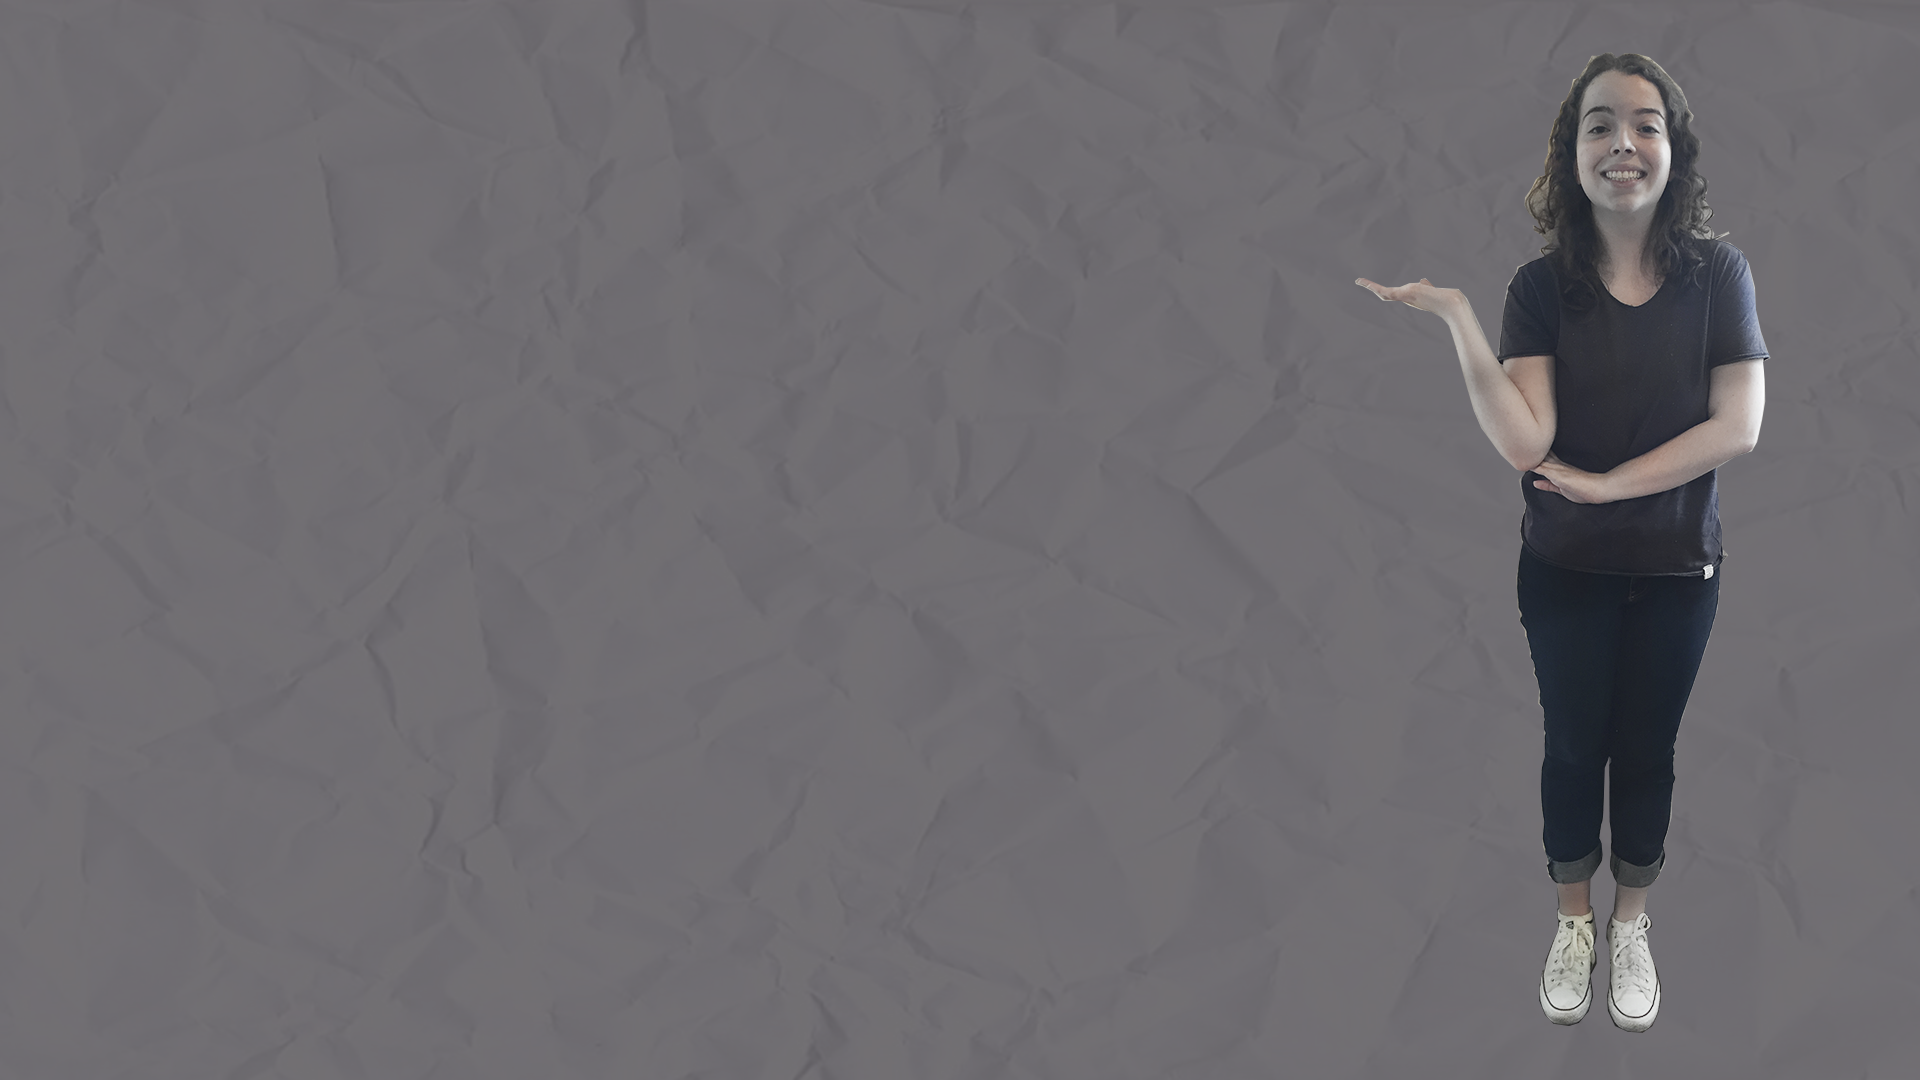
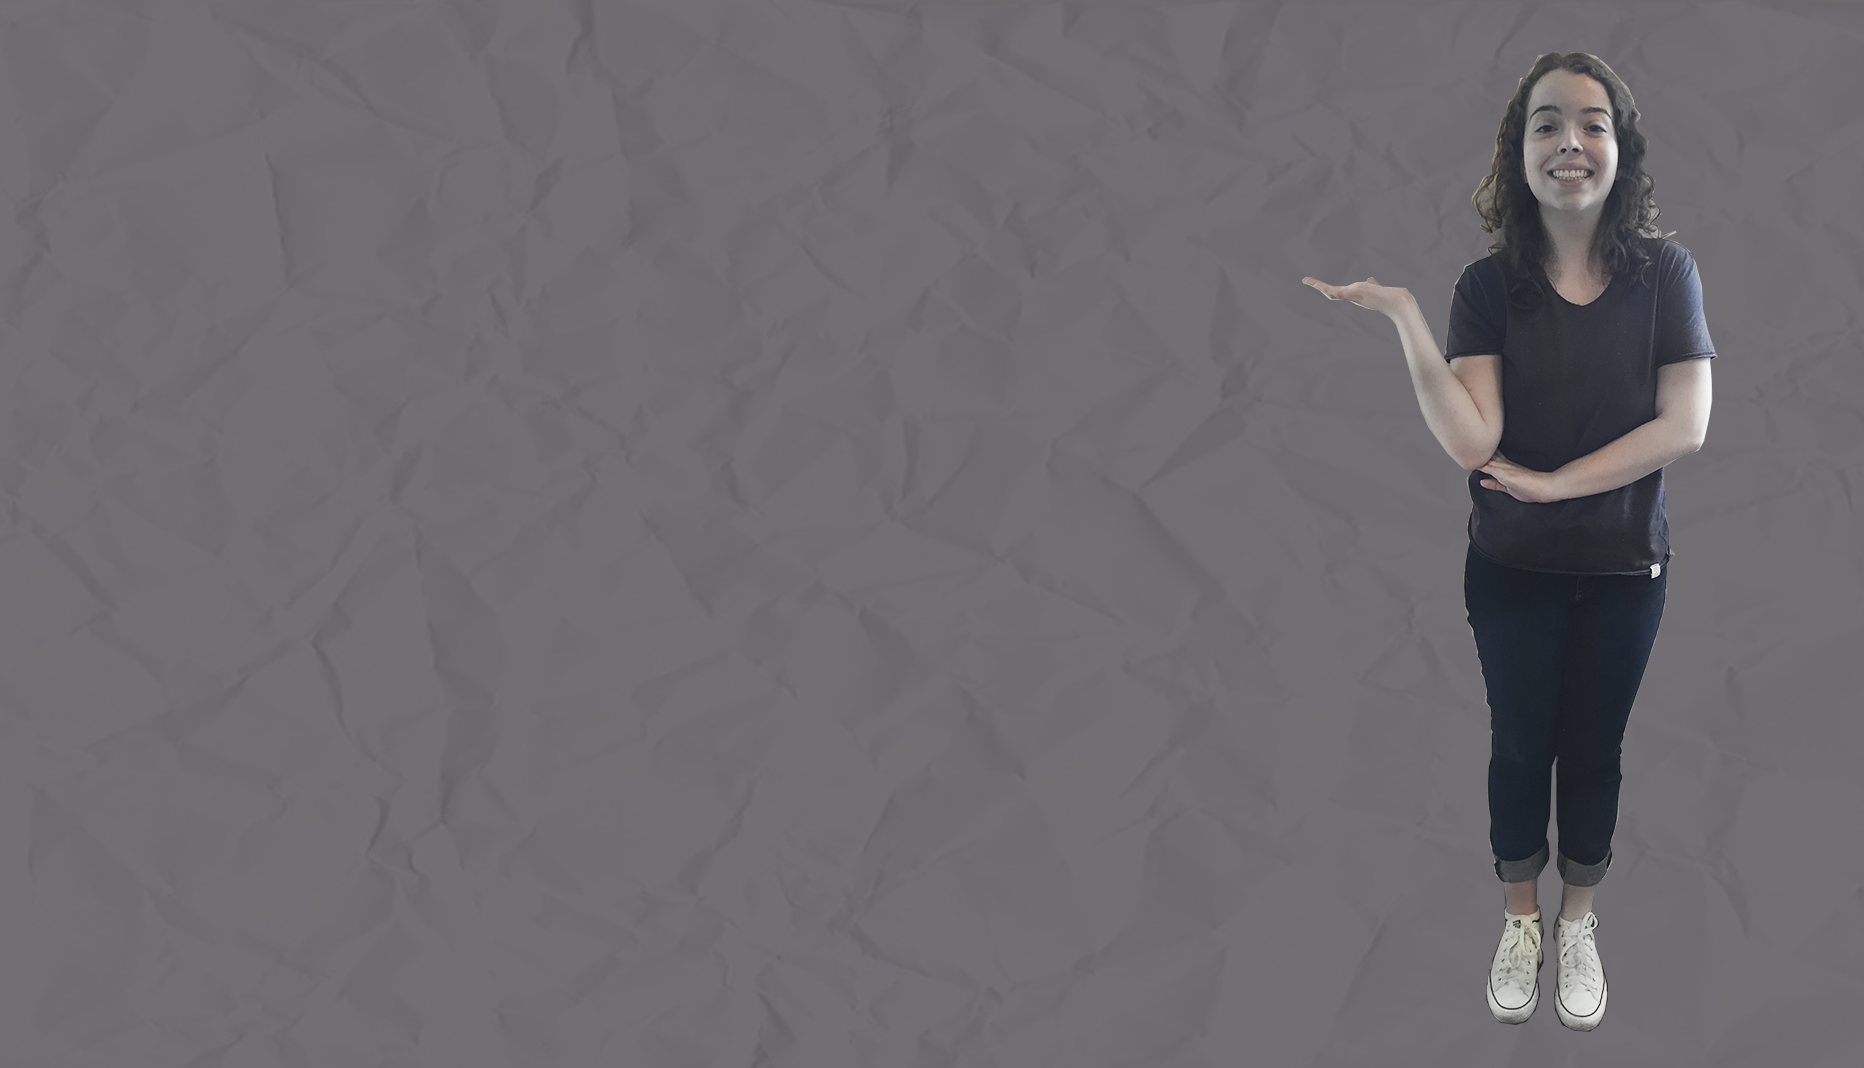
jg

Changed region(s): [[0.6845, 0.0618, 0.9024, 0.9579], [0.9024, 0.309, 0.9335, 0.3399]]

diff --git a/ENTREGA/Victor/V_Sobremim.html b/ENTREGA/Victor/V_Sobremim.html
@@ -40,7 +40,7 @@
 			<div class = 'col-md-8 col-md-offset-1 height-200' style="font-family: oinegrito">
 
 				<p align="left" style="font-size: 18px;">
-				Com o apelido carinhoso de 'fattson', eu nasci na cidade de Maringá, Paraná e tenho 18 anos.Entretando moro em São Paulo desde meus 7 anos de idade.
+				Com o apelido carinhoso de 'fattson', eu nasci na cidade de Maringá, Paraná e tenho 18 anos, entretando moro em São Paulo desde meus 7 anos de idade.
 				<br>
 				Escolhi engenharia pela minha aptidão pela área de exatas. Ou melhor, pela minha afeição à tecnologia, em especial à eletrônica. Então escolhi minha gradução: Engenharia Mecatrônica! Após diversas escolhas, optei por comear minha carreira acadêmia no Insper, lugar onde poderia (e posso) desenvolver minha paixão pela eletrônica. 
 				<br>

diff --git a/ENTREGA/Clara/C_Sobremim.html b/ENTREGA/Clara/C_Sobremim.html
@@ -11,7 +11,7 @@
 	
 	<style type="text/css">
 		body {
-				background-image: url("../image/Fundo_Clara.jpg"); 
+				background-image: url("../image/Background_Clara.png"); 
 			}
 	</style>
 	<link rel="icon" type="image/png" href="../image/et.png" /> 
